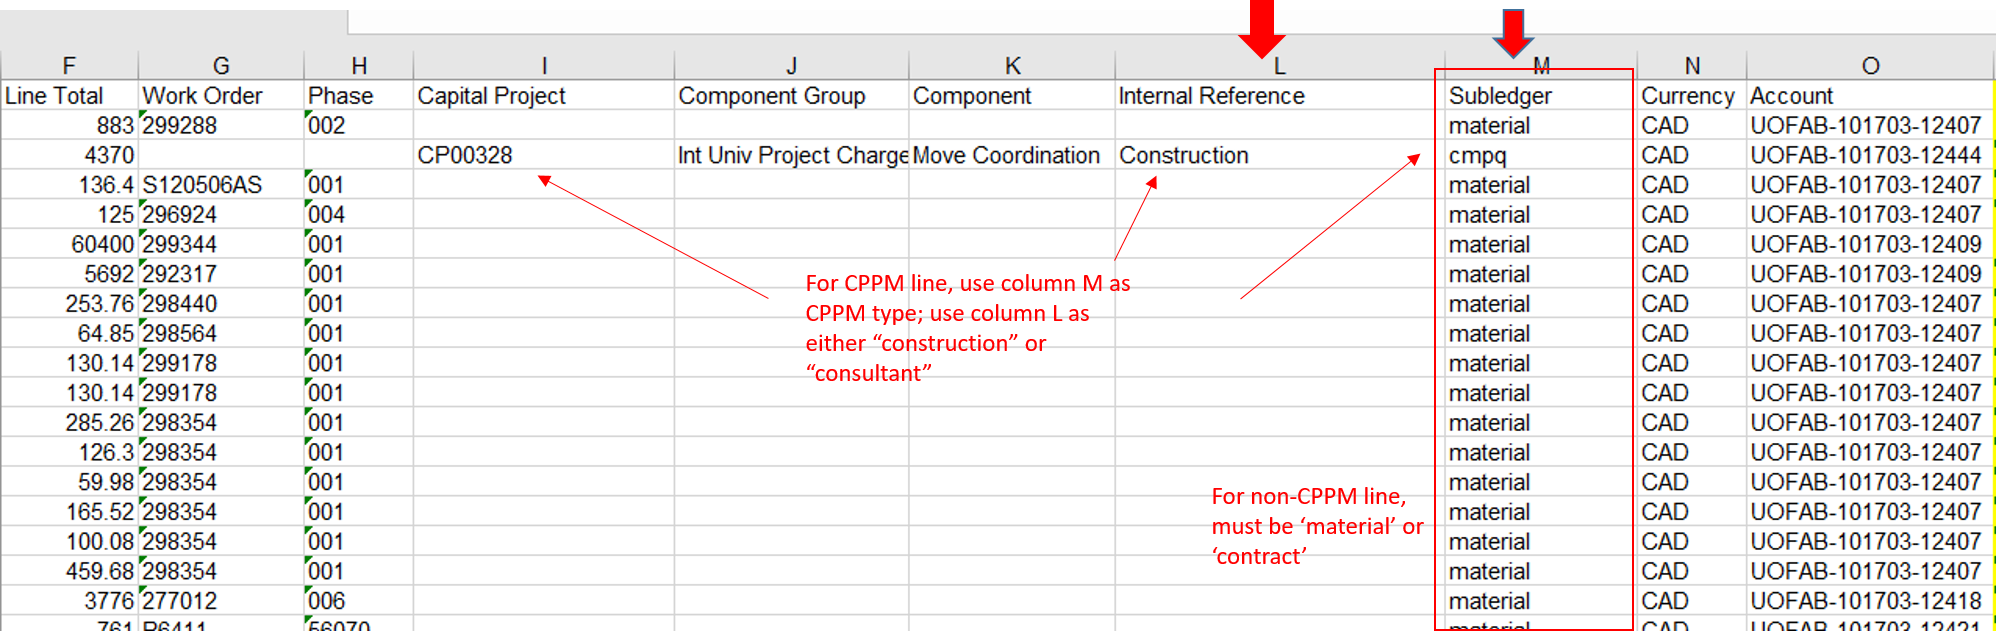
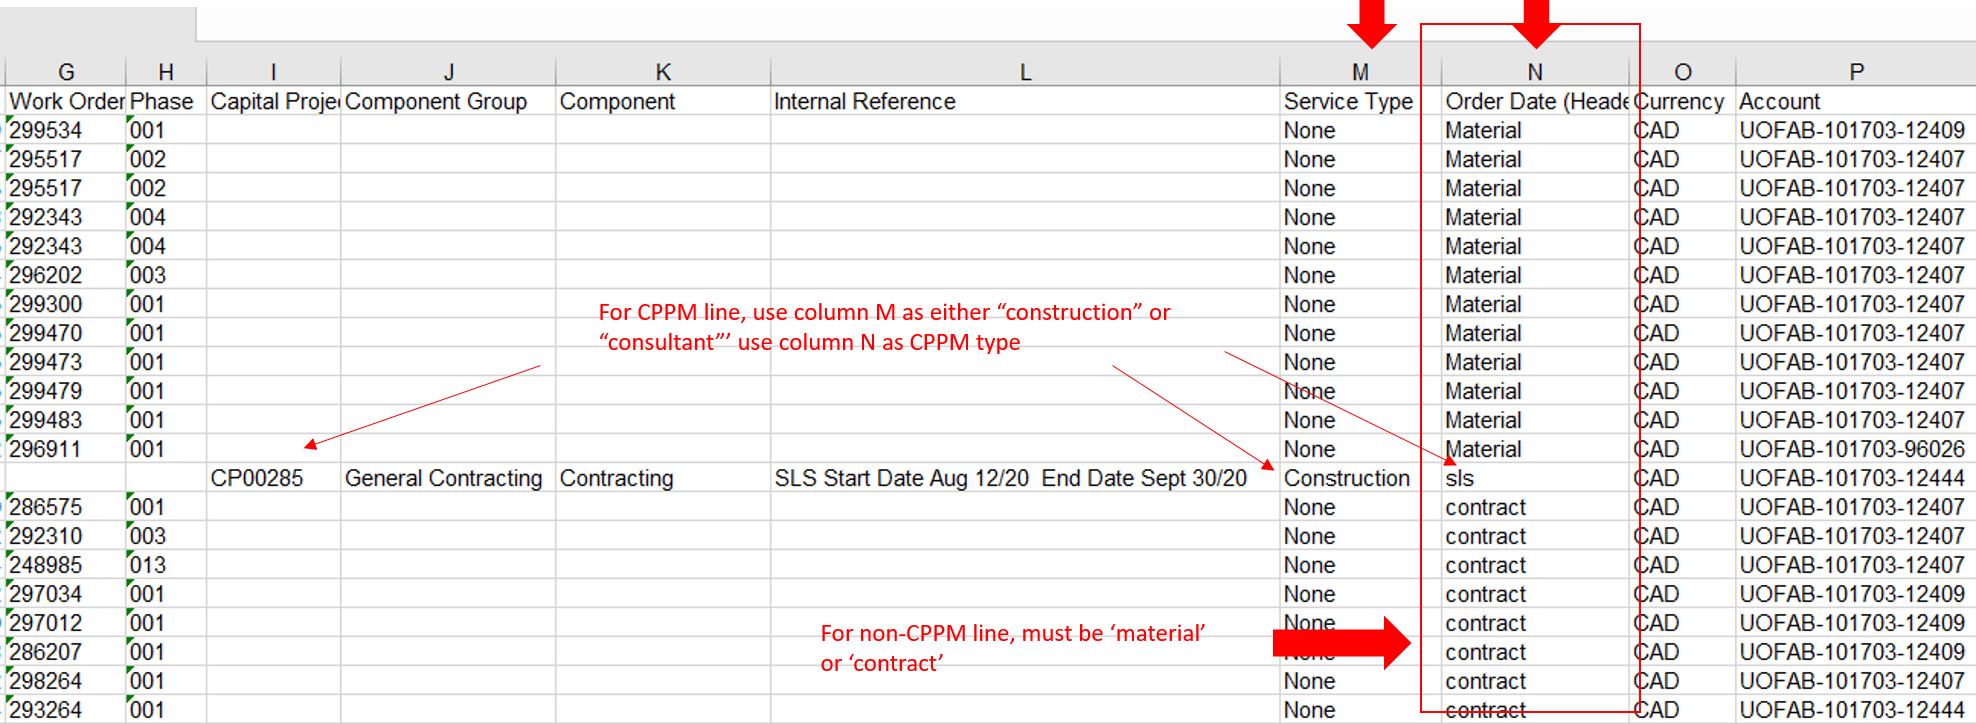
updated: insert a new column

Changed region(s): [[0.0, 0.0, 1.0, 1.0], [0.0, 0.0, 0.0926, 0.0301]]

diff --git a/backend/README.md b/backend/README.md
@@ -19,13 +19,13 @@
 # Important Notes for Users
 
 1. Before running the RPA program, the excel file should be edited. 
-   * For non-CPPM lines,column M's value should either be *"Material"* or *"Contract"*, indicating if this PO's subledger is "Material" or "Contract"; for CPPM lines, Column M should be the CPPM type. Otherwise, the corresponding row won't be processed.
-   * For CPPM lines, column L should indicate whether it's a "construction" contract or a "consultant" contract. It's not case-sensitive, but spelling must be right.
+   * For non-CPPM lines,column N's value should either be *"Material"* or *"Contract"*, indicating if this PO's subledger is "Material" or "Contract"; for CPPM lines, Column N should be the CPPM type. Otherwise, the corresponding row won't be processed.
+   * For CPPM lines, column M should indicate whether it's a "construction" contract or a "consultant" contract. It's not case-sensitive, but spelling must be right.
 
 ![excel edit](images/excel_edit.png)
 
-2. Always check the downloads.xlsx after the program finishes. The program should log the PO code in AiM. Column P, Q and R are **auto generated** by this RPA program. Please manually check those error messages. Notice the new columns end with *"(demo)"* or *"(prod)"*
-   * For CPPM lines, column P will store the contract id saved in AiM system.
+2. Always check the downloads.xlsx after the program finishes. The program should log the PO code in AiM. Column Q, R and S are **auto generated** by this RPA program. Please manually check those error messages. Notice the new columns end with *"(demo)"* or *"(prod)"*
+   * For CPPM lines, column Q will store the contract id saved in AiM system.
 
 ![excel output](images/excel_output.png)
 
